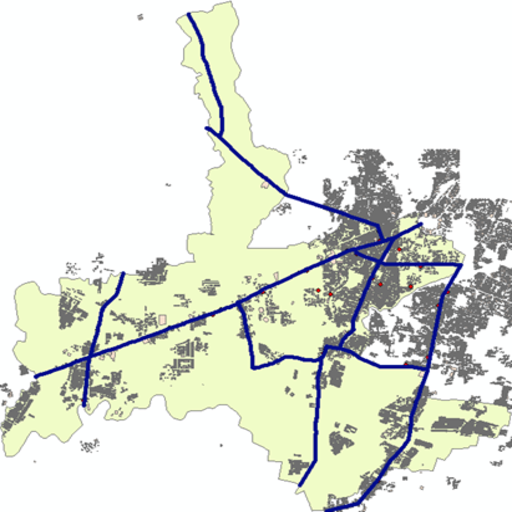
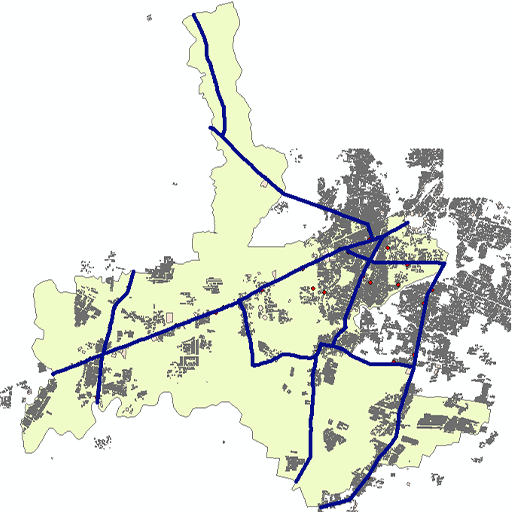
update marker and resolution of the map

Changed region(s): [[0.0, 0.0, 1.0, 1.0], [0.3125, 0.3438, 0.3438, 0.375], [0.25, 0.0312, 0.2812, 0.0625]]

diff --git a/assets/js/script.js b/assets/js/script.js
@@ -6,7 +6,7 @@ const changeImageButton = document.getElementById('change-image-button');
 let currentMarker = null;
 let currentImageIndex = 0;
 
-const images = ['assets/img/map.png', 'assets/img/map2.jpg'];
+const images = ['assets/img/map.png', 'assets/img/map2.png'];
 
 function placeMarker(event) {
   const mapRect = mapImage.getBoundingClientRect();
@@ -18,8 +18,9 @@ function placeMarker(event) {
       markerContainer.removeChild(currentMarker);
     }
 
-    const marker = document.createElement('div');
+    const marker = document.createElement('img');
     marker.className = 'marker';
+    marker.src = 'assets/img/placeholder.png';
     
     // Set posisi marker relatif terhadap gambar
     marker.style.left = `${x}px`;

diff --git a/assets/css/styles.css b/assets/css/styles.css
@@ -14,14 +14,12 @@
 
   .marker {
     position: absolute;
-    width: 10px; /* Sesuaikan dengan ukuran yang Anda inginkan */
-    height: 10px; /* Sesuaikan dengan ukuran yang Anda inginkan */
-    background-color: blue; /* Sesuaikan dengan warna yang Anda inginkan */
-    border-radius: 50%; /* Membuat marker berbentuk lingkaran */
-    transform: translate(-50%, -50%); /* Pusatkan marker */
+    width: 25px; /* Sesuaikan dengan ukuran yang Anda inginkan */
+    height: 40px; /* Sesuaikan dengan ukuran yang Anda inginkan */
+    transform: translate(-50%, -100%); /* Pusatkan marker */
   }
   
-  img {
+  .img-class {
     border: 2px solid black; /* Ganti dengan warna dan ketebalan stroke yang Anda inginkan */
   }
 

diff --git a/index.html b/index.html
@@ -12,7 +12,7 @@
 <body class="bg-gray-100">
     <div id="map-container" onclick="placeMarker(event)">
         <div id="map-image">
-            <img src="assets/img/map.png" id="map" alt="Map Image">
+            <img class="img-class" src="assets/img/map.png" id="map" alt="Map Image">
             <div id="marker-container"></div>
         </div>
     </div>
